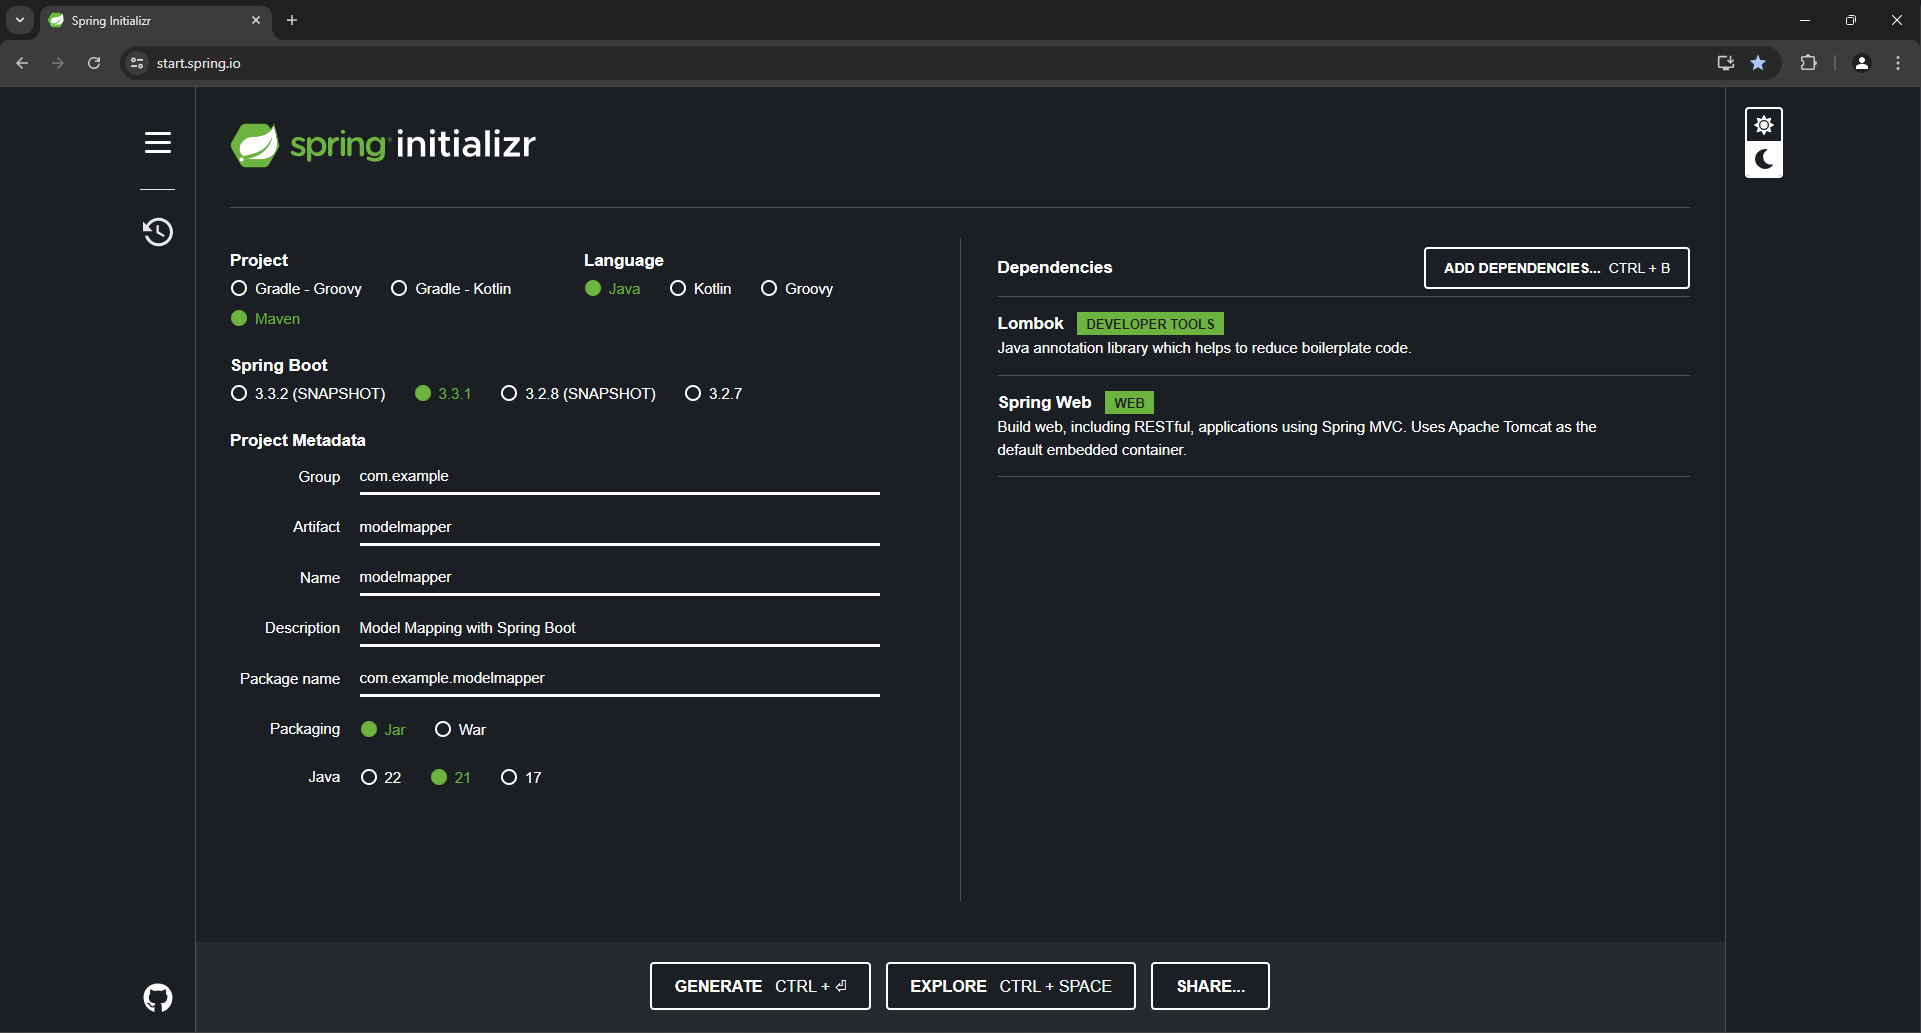
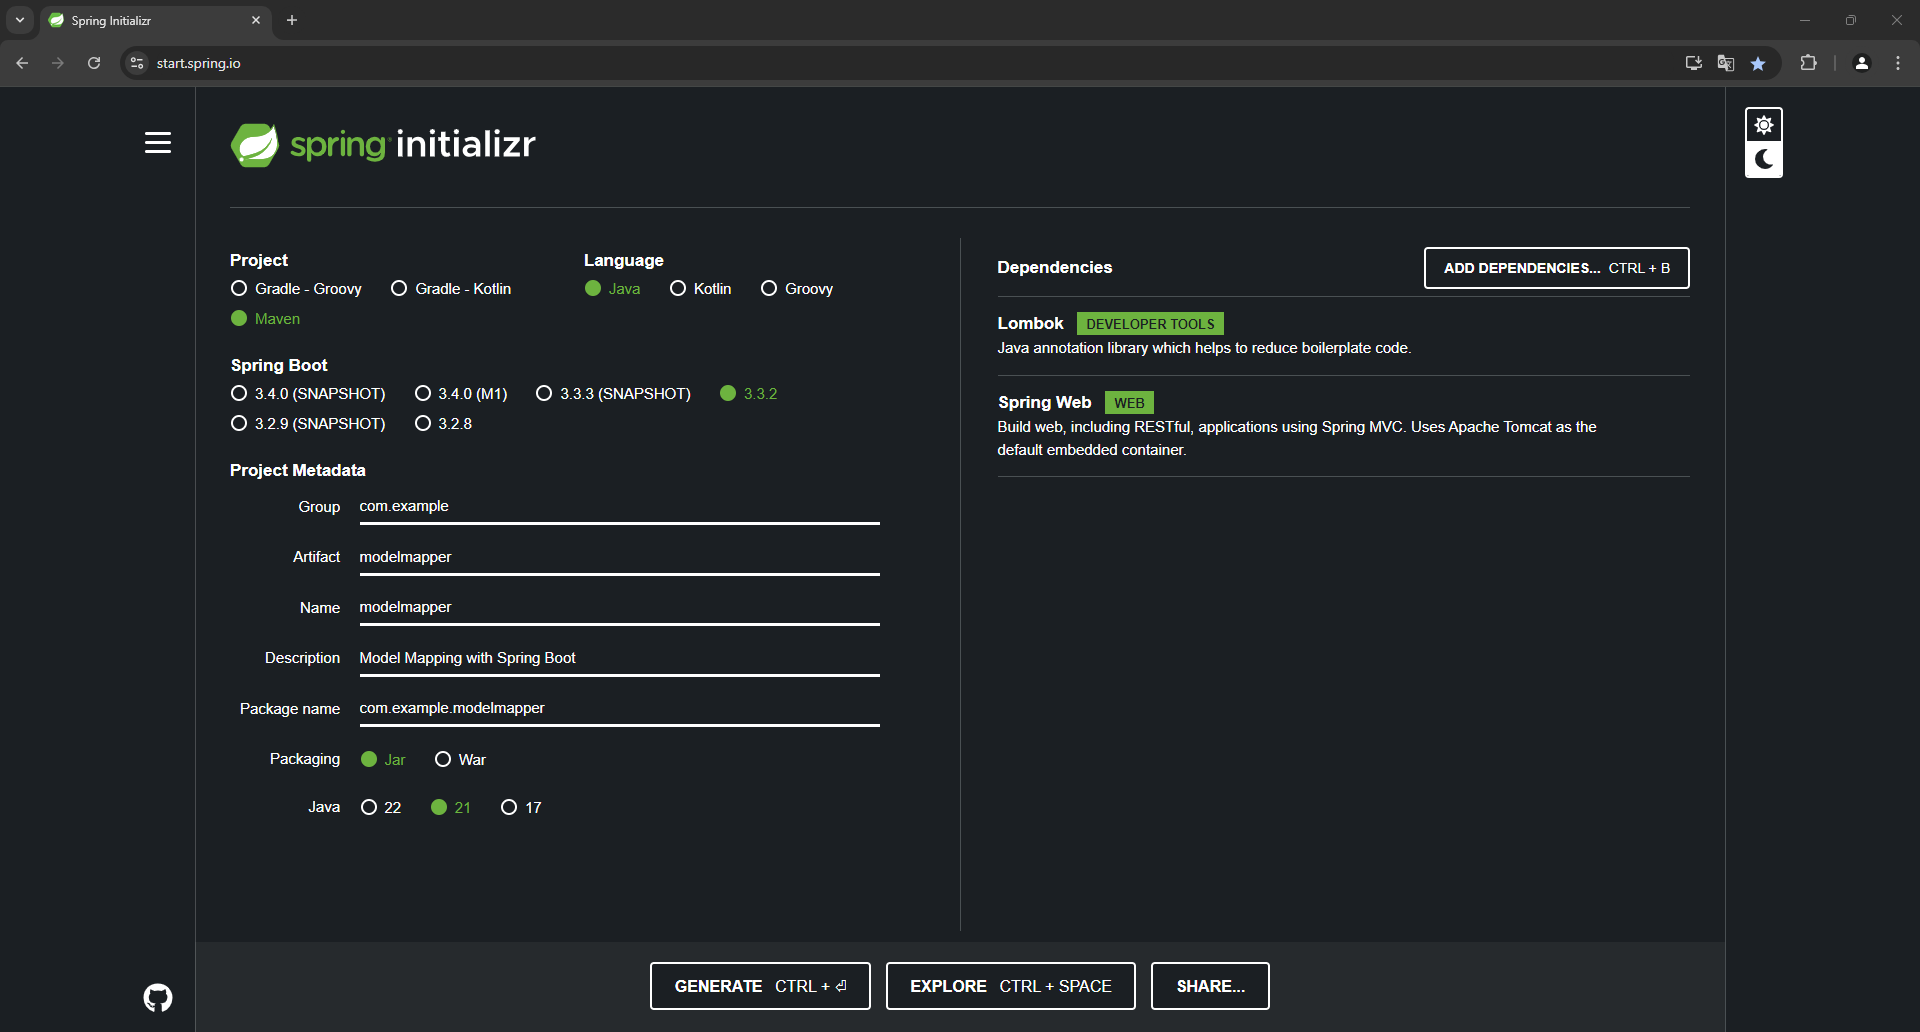
Update README.md

diff --git a/README.md b/README.md
@@ -6,9 +6,9 @@ It promotes separation of concerns, keeping data transformation logic distinct f
 
 <b>Author:</b> <a href="https://github.com/spring-boot-react-nextjs" target="_blank">spring-boot-react-nextjs</a><br>
 <b>Created:</b> 2024-07-08<br>
-<b>Last updated:</b> 2024-07-08
+<b>Last updated:</b> 2024-08-04
 
-[![](https://img.shields.io/badge/Spring%20Boot-8A2BE2)]() [![](https://img.shields.io/badge/release-Jun%2020,%202024-blue)]() [![](https://img.shields.io/badge/version-3.3.1-blue)]()
+[![](https://img.shields.io/badge/Spring%20Boot-8A2BE2)]() [![](https://img.shields.io/badge/release-Jul%2018,%202024-blue)]() [![](https://img.shields.io/badge/version-3.3.2-blue)]()
 
 ## 1. Why Model Mapping Matters?
 
